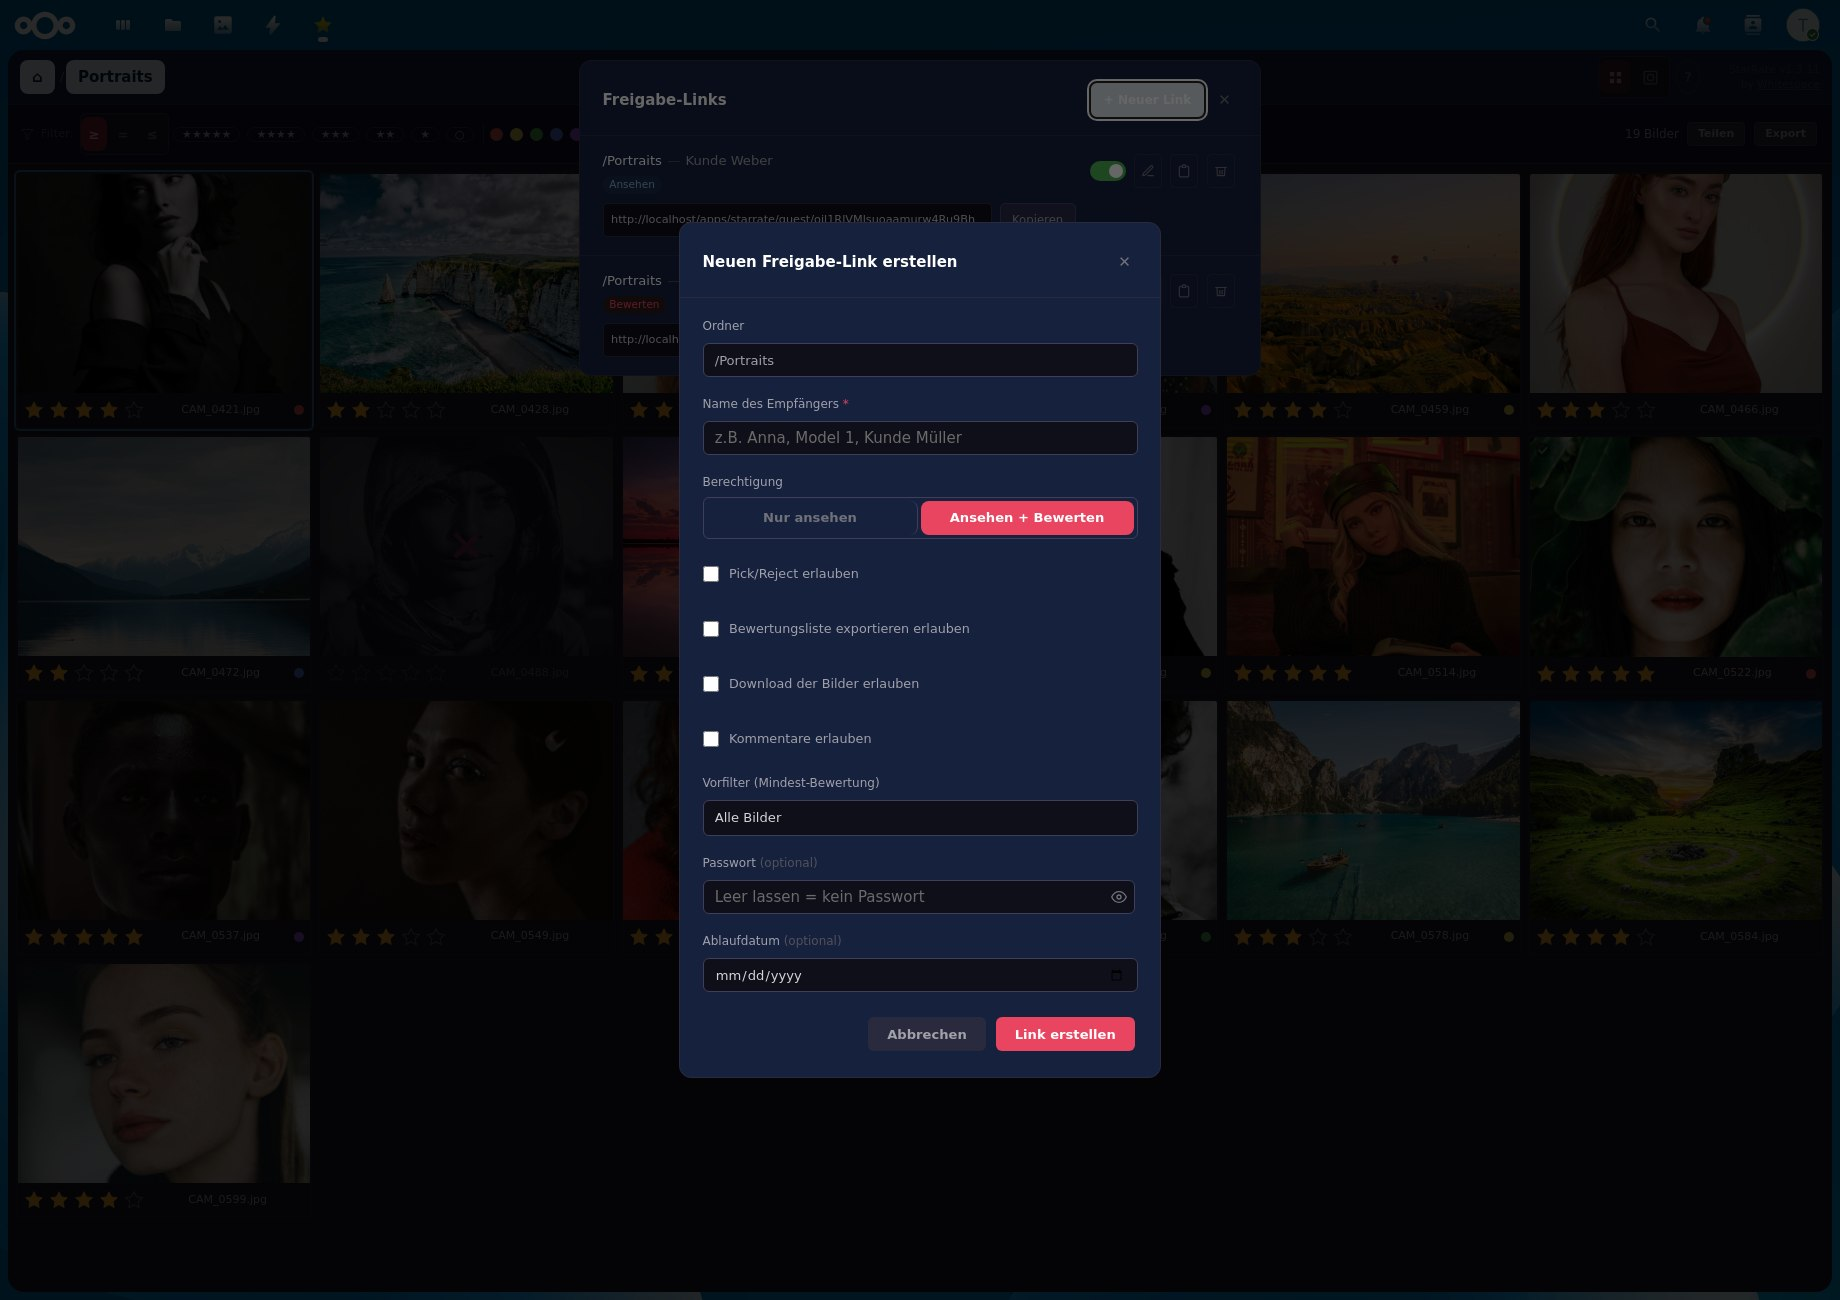
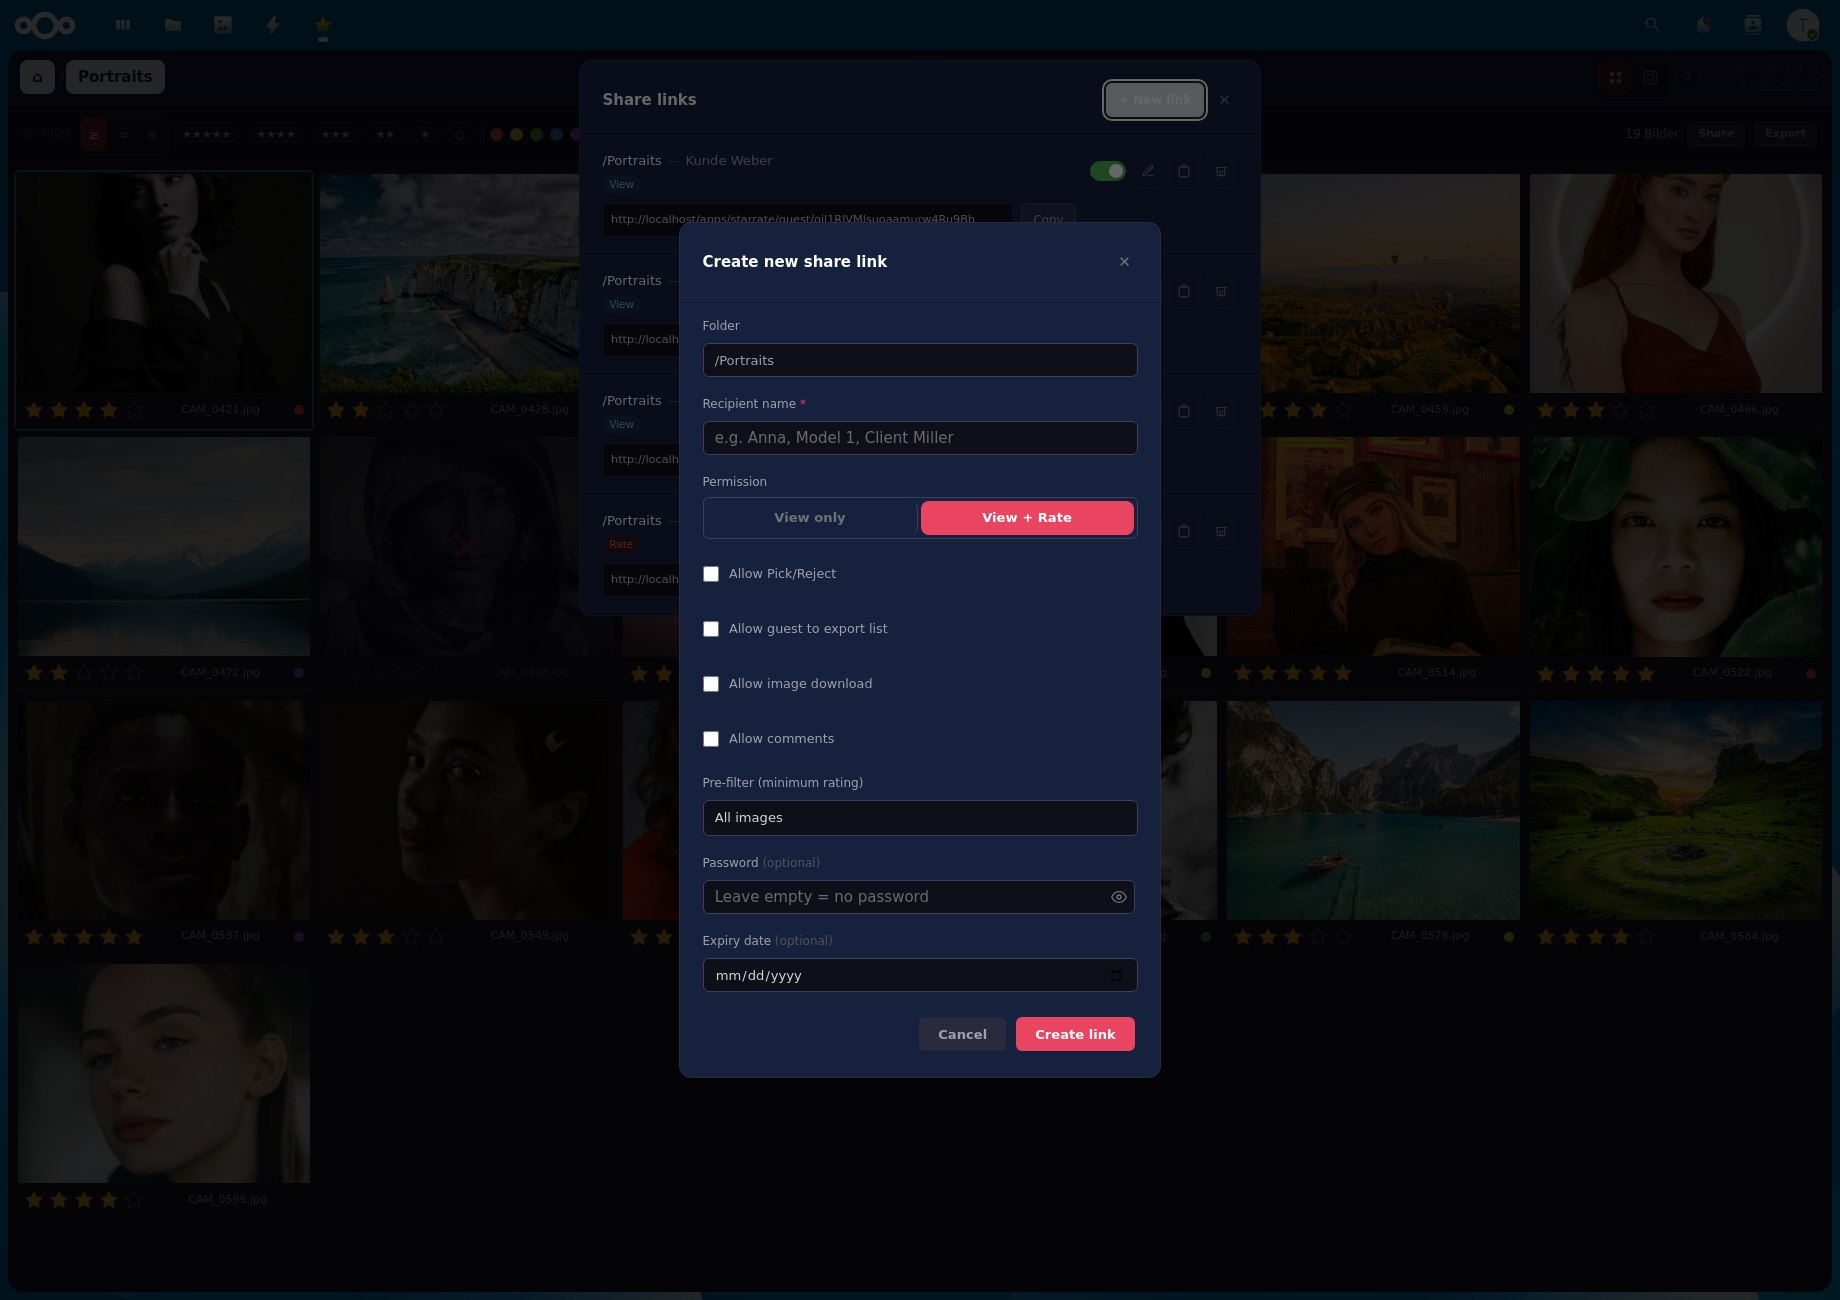
docs: Screenshots auf Englisch als Primärsatz + Mobile-Ansichten
- Primärsatz (README + Store) jetzt EN: starrate-{grid,loupe,guest,share,newshare}.jpg
- Deutscher Satz als -de.jpg erhalten (beide Sprachen verfügbar)
- Neu: Mobile-Ansichten (starrate-mobile-{grid,loupe}.jpg, 430x932) — im Store-Karussell ergänzt
- Capture-Spec um mobile-grid/mobile-loupe erweitert

Hinweis: der Bild-Zähler oben rechts zeigt in EN noch 'Bilder' (Plural-i18n-Bug,
%n Bild wird nicht aufgelöst) — separater App-Fix, kein Screenshot-Problem.

diff --git a/tests/e2e/screenshots.cy.js b/tests/e2e/screenshots.cy.js
@@ -103,4 +103,22 @@ describe('StarRate Screenshots', () => {
     cy.wait(3000)
     cy.screenshot('starrate-guest', { capture: 'viewport', overwrite: true })
   })
+
+  // Mobile-Ansichten: schmaler Viewport (< Fenster → kein Crop). Portrait 430x932
+  // (iPhone-Klasse). Responsive Grid fällt auf 2 Spalten + kompakte Filterleiste.
+  it('mobile-grid', () => {
+    cy.viewport(430, 932)
+    openPortraits()
+    cy.screenshot('starrate-mobile-grid', { capture: 'viewport', overwrite: true })
+  })
+
+  it('mobile-loupe', () => {
+    cy.viewport(430, 932)
+    openPortraits()
+    cy.contains('.sr-grid__item', LOUPE_FILE, { timeout: 10000 }).dblclick()
+    cy.get('.sr-loupe', { timeout: 8000 }).should('be.visible')
+    cy.wait(2500)
+    cy.screenshot('starrate-mobile-loupe', { capture: 'viewport', overwrite: true })
+    cy.get('body').type('{esc}')
+  })
 })
